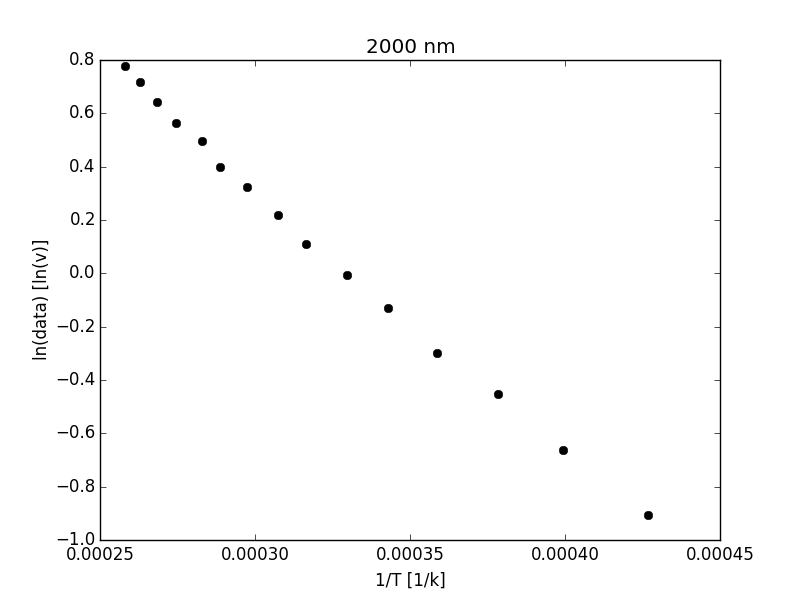
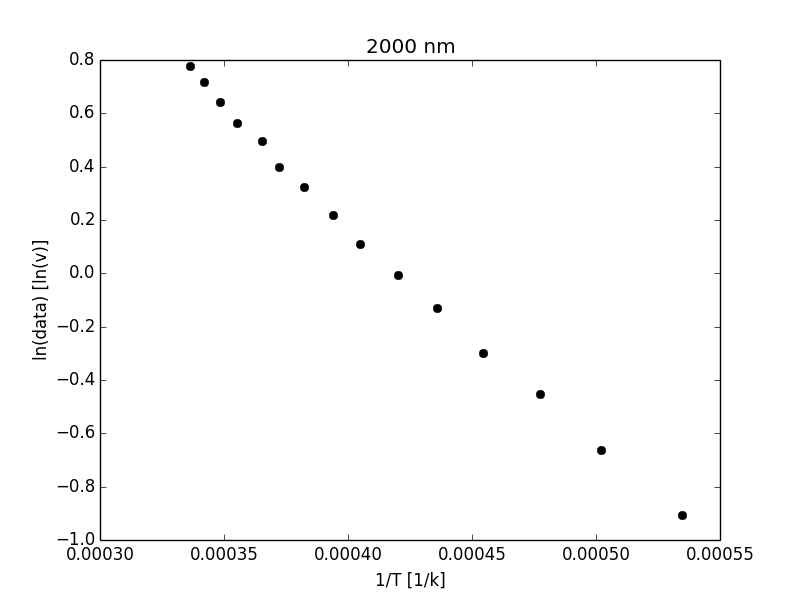
updated temps

diff --git a/BlackBody/analyse.py b/BlackBody/analyse.py
@@ -6,12 +6,8 @@ sigma = 5.67*(10**(-8))
 def normalize(l):
 	return(l/np.max(l))
 
-
-#NEEDS TO BE DISCUSSSEDSDESSDDS
 def getTemp(I,V):
-	alpha = 4.5*10**-3
-	return(1/alpha*(V/I)/4.5398-1+295) #calues are reasonable, but got alpha from internets.
-	return(((I*V)/sigma)**(1/4.)) #WHY DOESNT THIS WORK!!!!
+	return(((V/I)/4.5398)**(1/1.203)*295)
 
 def genCalcCols(dataFile):
 	data = np.transpose(np.loadtxt(dataFile,skiprows = 1))
@@ -32,20 +28,20 @@ def plotLogDetVinvT(dataFile,title):
 
 
 
-# genCalcCols('BlackBody600.data')
+genCalcCols('BlackBody600.data')
 plotLogDetVinvT('BlackBody600.data','600 nm')
 
-# genCalcCols('BlackBody800.data')
+genCalcCols('BlackBody800.data')
 plotLogDetVinvT('BlackBody800.data','800 nm')
 
-# genCalcCols('BlackBody1200.data')
+genCalcCols('BlackBody1200.data')
 plotLogDetVinvT('BlackBody1200.data','1200 nm')
 
-# genCalcCols('BlackBody1600.data')
+genCalcCols('BlackBody1600.data')
 plotLogDetVinvT('BlackBody1600.data','1600 nm')
 
-# genCalcCols('BlackBody2000.data')
+genCalcCols('BlackBody2000.data')
 plotLogDetVinvT('BlackBody2000.data','2000 nm')
 
-# genCalcCols('BlackBody2400.data')
+genCalcCols('BlackBody2400.data')
 plotLogDetVinvT('BlackBody2400.data','2400 nm')

diff --git a/Double_Slit/BulbData/ANANANA.py b/Double_Slit/BulbData/ANANANA.py
@@ -1,0 +1,15 @@
+import numpy as np 
+import matplotlib.pyplot as plt 
+DS = np.transpose(np.loadtxt('DoubleSlit.txt',skiprows = 1))
+
+
+plt.plot(position,intensity,color+'-')
+plt.plot(position,intensity,color+'.')
+plt.xlabel('angle (degrees)')
+plt.ylabel('Normalized Intensity')
+plt.title(title)
+
+
+plotData(DS,'','r')
+plotData(SS,'Bulb Data','b')
+plt.show()

diff --git a/Double_Slit/BulbStats/analyse.py b/Double_Slit/BulbStats/analyse.py
@@ -1,0 +1,13 @@
+import numpy as np 
+import matplotlib.pyplot as plt 
+data = np.transpose(np.loadtxt('10SecondDeviation.txt',skiprows = 1))
+
+plt.plot(data[0],data[3],'.')
+plt.xlabel('Counts')
+plt.ylabel('Percent Error')
+plt.title('10 Second Percent Error')
+
+
+# plotData(DS,'','r')
+
+plt.show()
